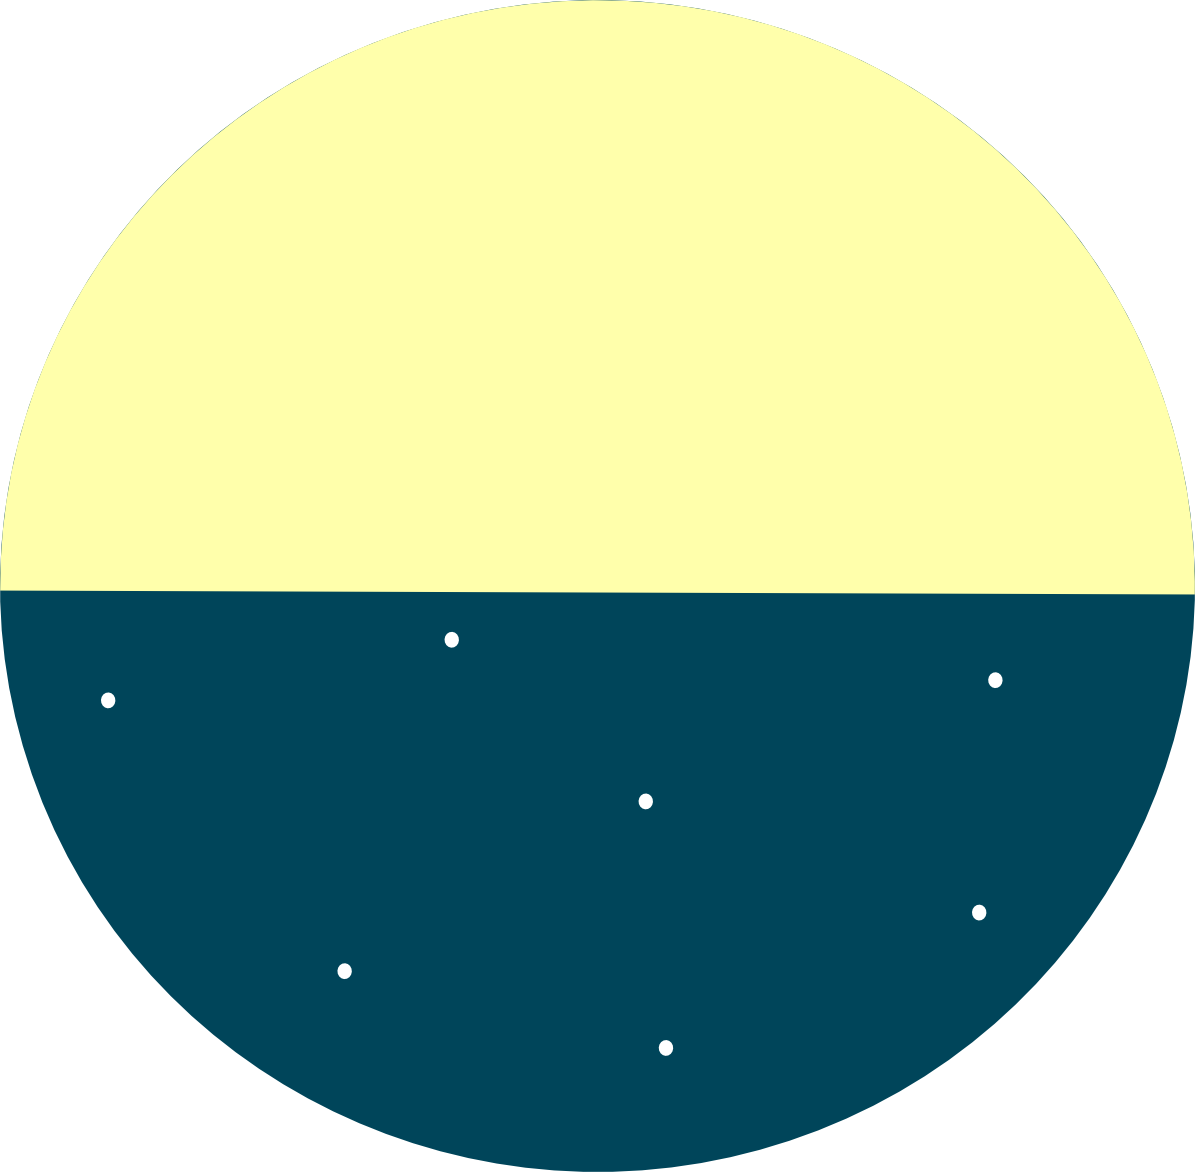
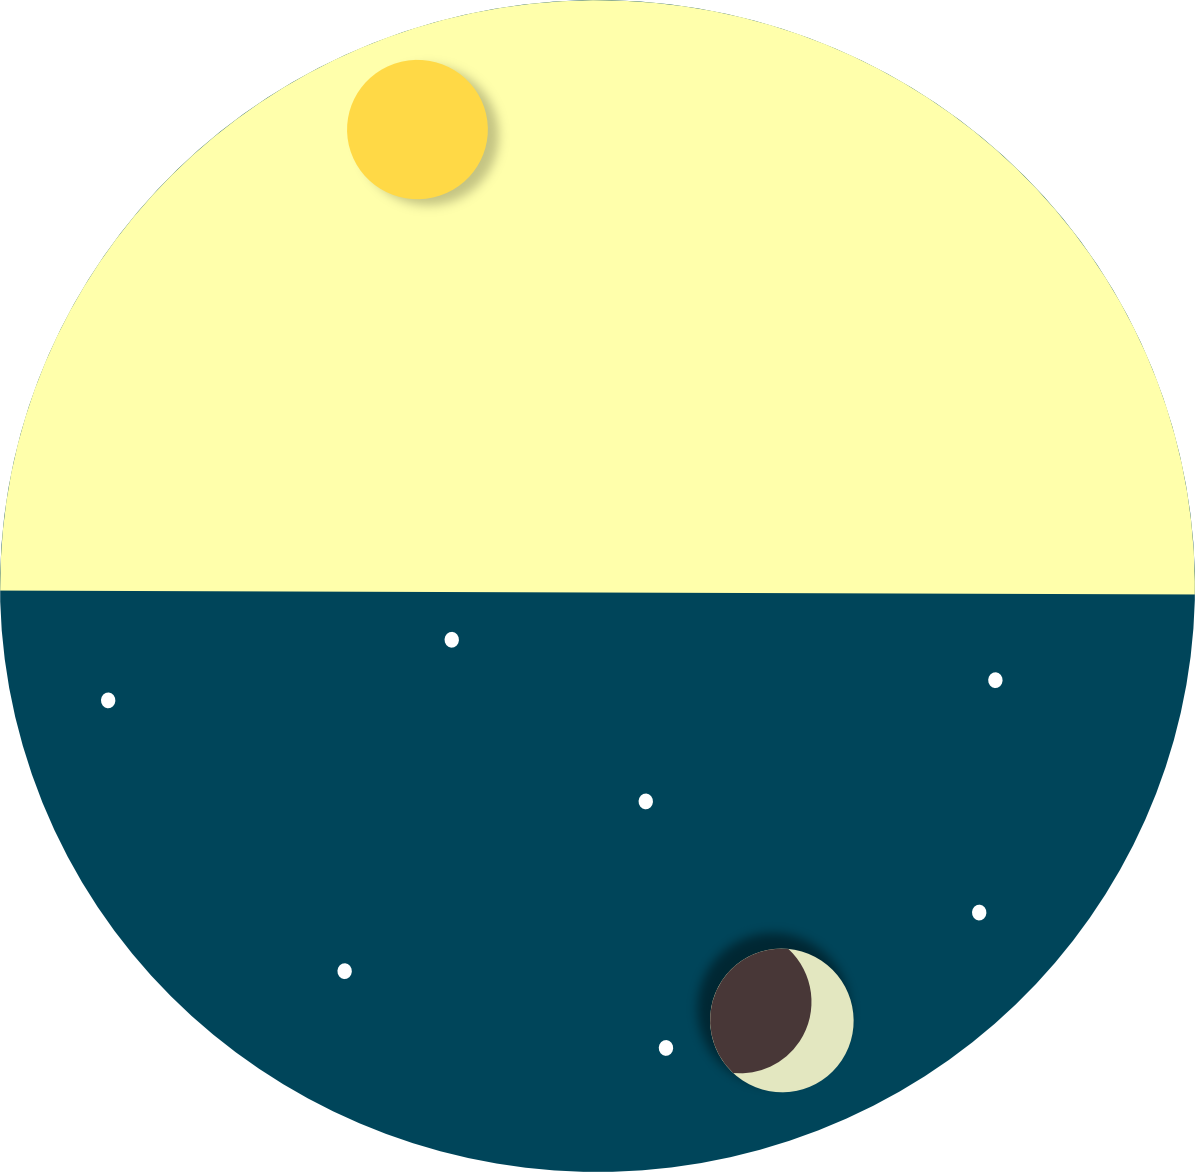
commit final.1

Changed region(s): [[0.2787, 0.0307, 0.4335, 0.1843], [0.5883, 0.7986, 0.7121, 0.9522]]

diff --git a/style.css b/style.css
@@ -16,24 +16,46 @@ body{
     overflow: hidden;
 }
 
+.container::before{
+    content: "";
+    position: absolute;
+    background-position: center;
+    background-size: contain;
+    background-repeat: no-repeat;
+    width: 100px;
+    height: 200px;
+    z-index: 200;
+    margin: auto;
+    left: 0;
+    bottom: 0;
+}
+
 .elements{
+    display: flex;
+    flex-direction: column;
+    align-items: center;
     margin: auto;
 }
 
 /* FONDO */
 
-.sky{
-    margin-bottom: -100%;
+.fondo{
     position: relative;
-    width: 100%;
-    animation: cielo 2s infinite linear;
+    display: flex;
+    justify-content: center;
+}
+
+.sky{
+    position: absolute;
+    width: 900px;
+    animation: cielo 5s infinite linear;
 }
 
 @keyframes cielo{
     0%{transform: rotate(0deg);}
     25%{transform: rotate(0deg);}
-    50%{transform: rotate(175deg);}
-    75%{transform: rotate(175deg);}
+    50%{transform: rotate(178deg);}
+    75%{transform: rotate(178deg);}
     100%{transform: rotate(360deg);}
 
 }
@@ -47,6 +69,7 @@ body{
     margin: auto;
     justify-content: center;
     margin-top: 130px;
+
 }
 
 .montañas img{
@@ -65,11 +88,43 @@ body{
     width: 150px;
 }
 
+/* TREES */
+
+
+.trees{
+    display: flex;
+    justify-content: space-between;
+    z-index: 200;
+    position: relative;
+    width: 100%;
+    margin-top: -650px;
+}
+
+@media screen and (orientation: portrait) {
+    .trees{
+        width: 140%;
+    }
+}
+
+.trees img{
+    width: 200px;
+    filter: drop-shadow(5px 0 7px rgba(0,0,0,0.5));
+}
+
+.trees img:first-child{
+    margin-left: -50px;
+}
+
+.trees img:last-child{
+    margin-right: -50px;
+}
+
 /* CLOUDS */
 
 .clouds{
     display: flex;
     justify-content: space-around;
+    width: 120%;
 }
 
 .clouds img{
@@ -84,6 +139,25 @@ body{
     transform: translateY(60px);
 }
 
+@keyframes nubes{
+    0%{transform: translateY(0px);}
+    100%{transform: translateY(30px);}
+}
+
+@keyframes nubes-two{
+    0%{transform: translateY(30px);}
+    100%{transform: translateY(0px);}
+}
+
+.clouds img:nth-child(1),
+.clouds img:nth-child(3){
+    animation: nubes 2s infinite alternate;
+}
+.clouds img:nth-child(2),
+.clouds img:nth-child(4){
+    animation: nubes-two 2s infinite alternate;
+}
+
 
 
 /* floor */
@@ -92,11 +166,16 @@ body{
     width: 100%;
     z-index: 100;
     position: relative;
+    display: flex;
+    justify-content: center;
 }
 
 .floor .piso{
-    object-fit: contain;
-    width: 100%;
+    object-fit: cover;
+    min-width: 800px;
+    max-width: 100%;
     margin-top: -5px;
+    filter: drop-shadow(5px 0 7px rgba(0,0,0,0.5));
+
 }
 

diff --git a/index.html b/index.html
@@ -9,7 +9,10 @@
 <body>
 
     <div class="container">
-        <img src="img/sky.png" alt="" class="sky">
+        <div class="fondo">
+            <img src="img/sky.png" alt="" class="sky">
+        </div>
+        
 
         <div class="elements">
             <div class="clouds">
@@ -23,8 +26,13 @@
                 <img src="img/montaña.png" alt="">
                 <img src="img/montaña.png" alt="">
             </div>
+           
             <div class="floor">
                 <img src="img/floor.png" alt="" class="piso">
+            </div>
+            <div class="trees">
+                <img src="img/tree.png" alt="">
+                <img src="img/tree.png" alt="">
             </div>
         </div>
         
